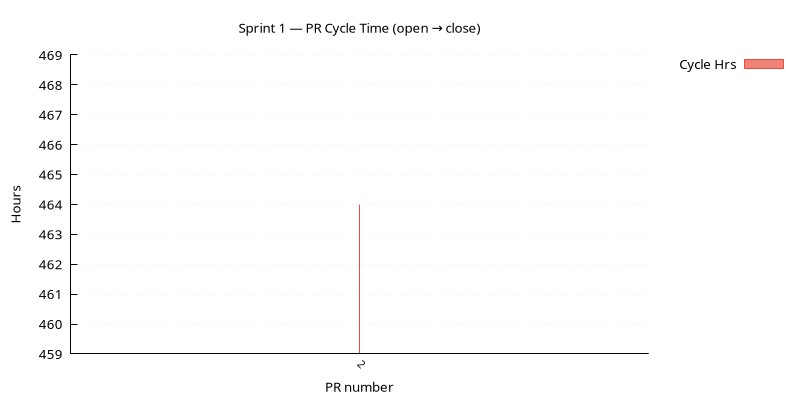
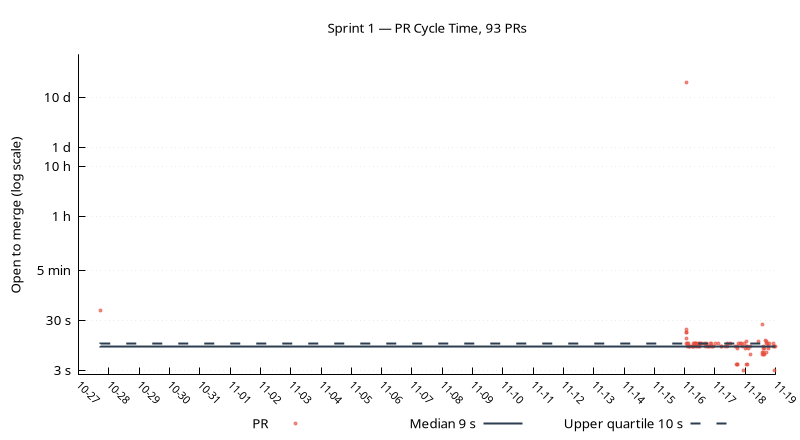
[agile] Chart every PR of the sprint, on a log scale of time
The PR cycle chart of sprint 1 showed one bar, PR #2, of the 93 PRs
merged in the sprint. The collector dropped every PR whose cycle rounded
to 0.0 hours, kept the 20 slowest of the rest, and had no lower bound on
the merge date. It now writes every PR merged in the window, by local
date, with its merge time and four decimals of an hour, and the chart
plots one point per PR at its merge time on a log scale, with the median
and upper quartile. Sprint 1's chart is rendered again.

The chart body is the one ORE Studio's pilot session prototyped on ORE
Studio's sprint 29, with legend durations in seconds, minutes or hours.

diff --git a/projects/compass.legacy/src/compass.py b/projects/compass.legacy/src/compass.py
@@ -1890,7 +1890,7 @@ def _sc_get_merged_prs(start, end):
     try:
         output = subprocess.check_output([
             "gh", "pr", "list", "--state", "merged",
-            "--search", f"merged:>={start}",
+            "--search", f"merged:>={start - datetime.timedelta(days=1)}",
             "--json", "number,title,createdAt,mergedAt",
             "--limit", "1000",
         ], text=True).strip()
@@ -1907,14 +1907,17 @@ def _sc_get_merged_prs(start, end):
         if not merged_str:
             continue
         merged_dt = datetime.datetime.fromisoformat(merged_str.replace("Z", "+00:00"))
-        if merged_dt.date() > end:
+        merged_dt = merged_dt.astimezone()
+        if not start <= merged_dt.date() <= end:
             continue
         created_dt = datetime.datetime.fromisoformat(pr["createdAt"].replace("Z", "+00:00"))
-        cycle_hours = round((merged_dt - created_dt).total_seconds() / 3600, 1)
+        # Four decimals of an hour keep a PR merged within seconds of opening
+        # off the chart's floor.
+        cycle_hours = round((merged_dt - created_dt).total_seconds() / 3600, 4)
         prs.append({
             "number": pr["number"],
             "title": (pr.get("title") or "")[:60],
-            "merged_day": merged_dt.date(),
+            "merged_at": merged_dt,
             "cycle_hours": cycle_hours,
         })
     return prs
@@ -1974,15 +1977,12 @@ def _sc_write_progress(cumulative, prs, output_dir):
             w.writerow(["2000-01-01", 0])
     print(f"Wrote {path}")
     cycle_path = output_dir / "pr_cycle_times.csv"
-    meaningful = sorted(
-        [pr for pr in prs if pr["cycle_hours"] > 0],
-        key=lambda x: x["cycle_hours"], reverse=True,
-    )[:20]
     with open(cycle_path, "w", newline="") as f:
         w = csv.writer(f, delimiter="\t")
-        w.writerow(["pr_number", "title", "day", "cycle_hours"])
-        for pr in sorted(meaningful, key=lambda x: x["merged_day"]):
-            w.writerow([pr["number"], pr["title"], pr["merged_day"].isoformat(), pr["cycle_hours"]])
+        w.writerow(["pr_number", "title", "merged_at", "cycle_hours"])
+        for pr in sorted(prs, key=lambda x: x["merged_at"]):
+            w.writerow([pr["number"], pr["title"],
+                        pr["merged_at"].strftime("%Y-%m-%dT%H:%M"), pr["cycle_hours"]])
     print(f"Wrote {cycle_path}")
 
 
